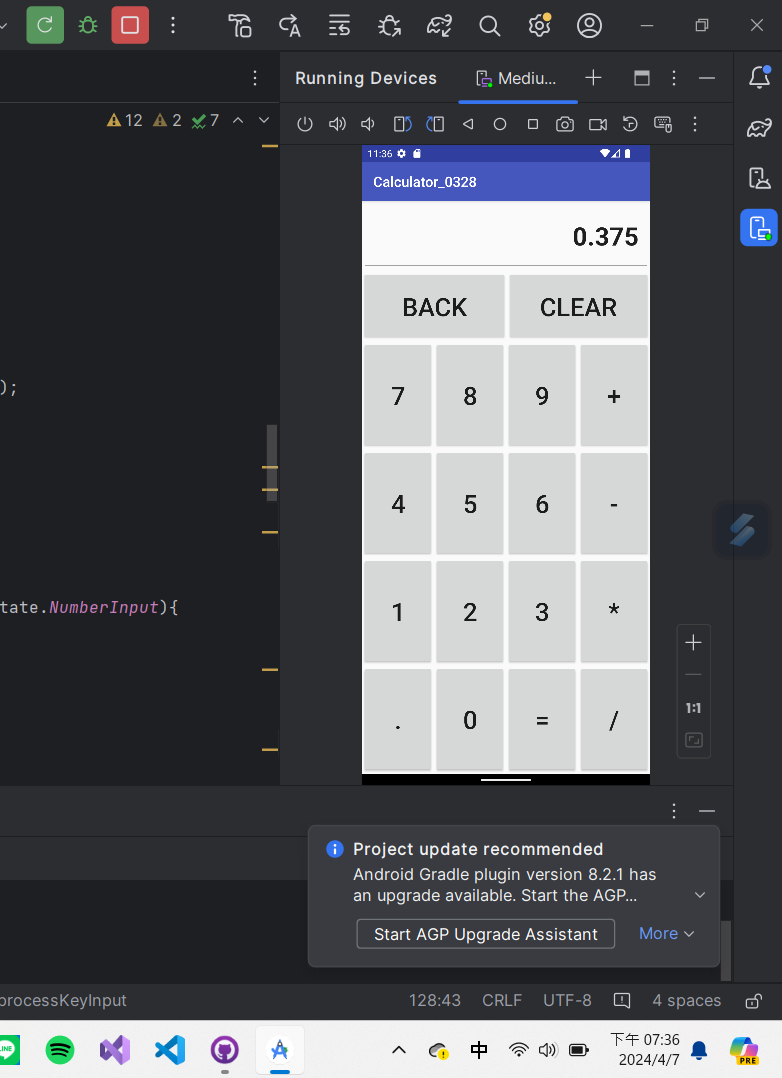
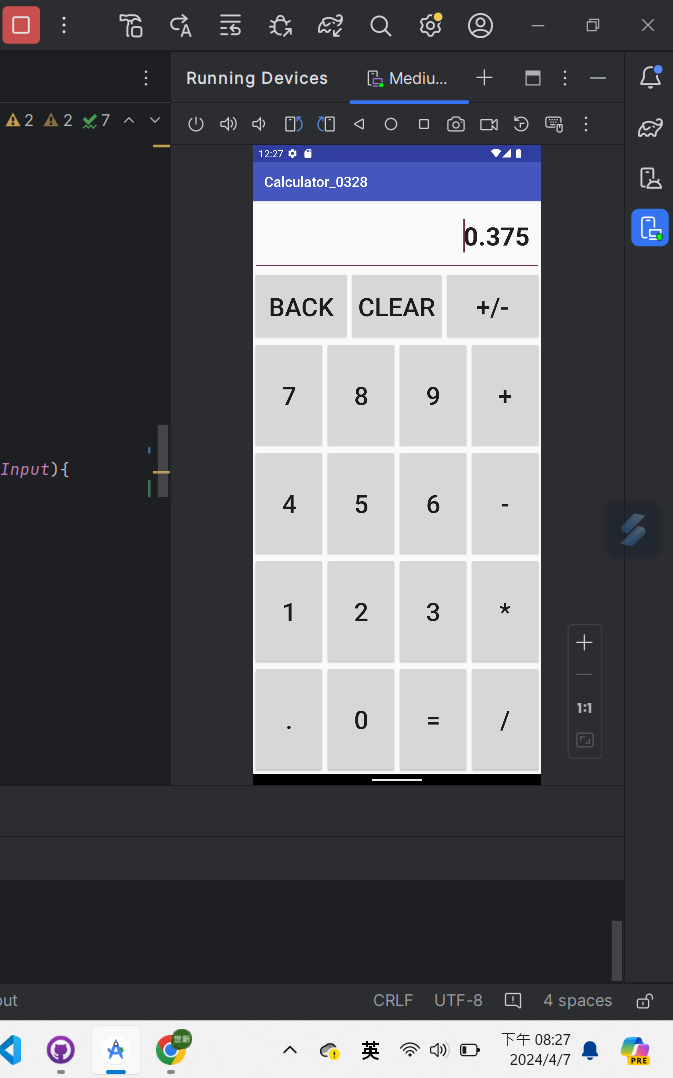
113-03-28-HW

diff --git a/Calculator_0328/app/src/main/java/com/example/calculator_0328/MainActivity.java b/Calculator_0328/app/src/main/java/com/example/calculator_0328/MainActivity.java
@@ -98,7 +98,7 @@ public class MainActivity extends AppCompatActivity {
                         decimalCouter++;
                         break;
                 }
-                edt.setText("" + Double.toString(theValue));
+                edt.setText(String.valueOf(theValue));
                 break;
 
             case ".":
@@ -106,6 +106,13 @@ public class MainActivity extends AppCompatActivity {
                     state = State.DecimalInput;
                     decimalCouter=1;
                     edt.setText(edt.getText().toString() + ".");
+                }
+                break;
+
+            case "+/-": // 負號按鈕
+                if (theValue != 0) {
+                    theValue = -theValue; // 將目前的值改為負數
+                    edt.setText(String.valueOf(theValue));
                 }
                 break;
 
